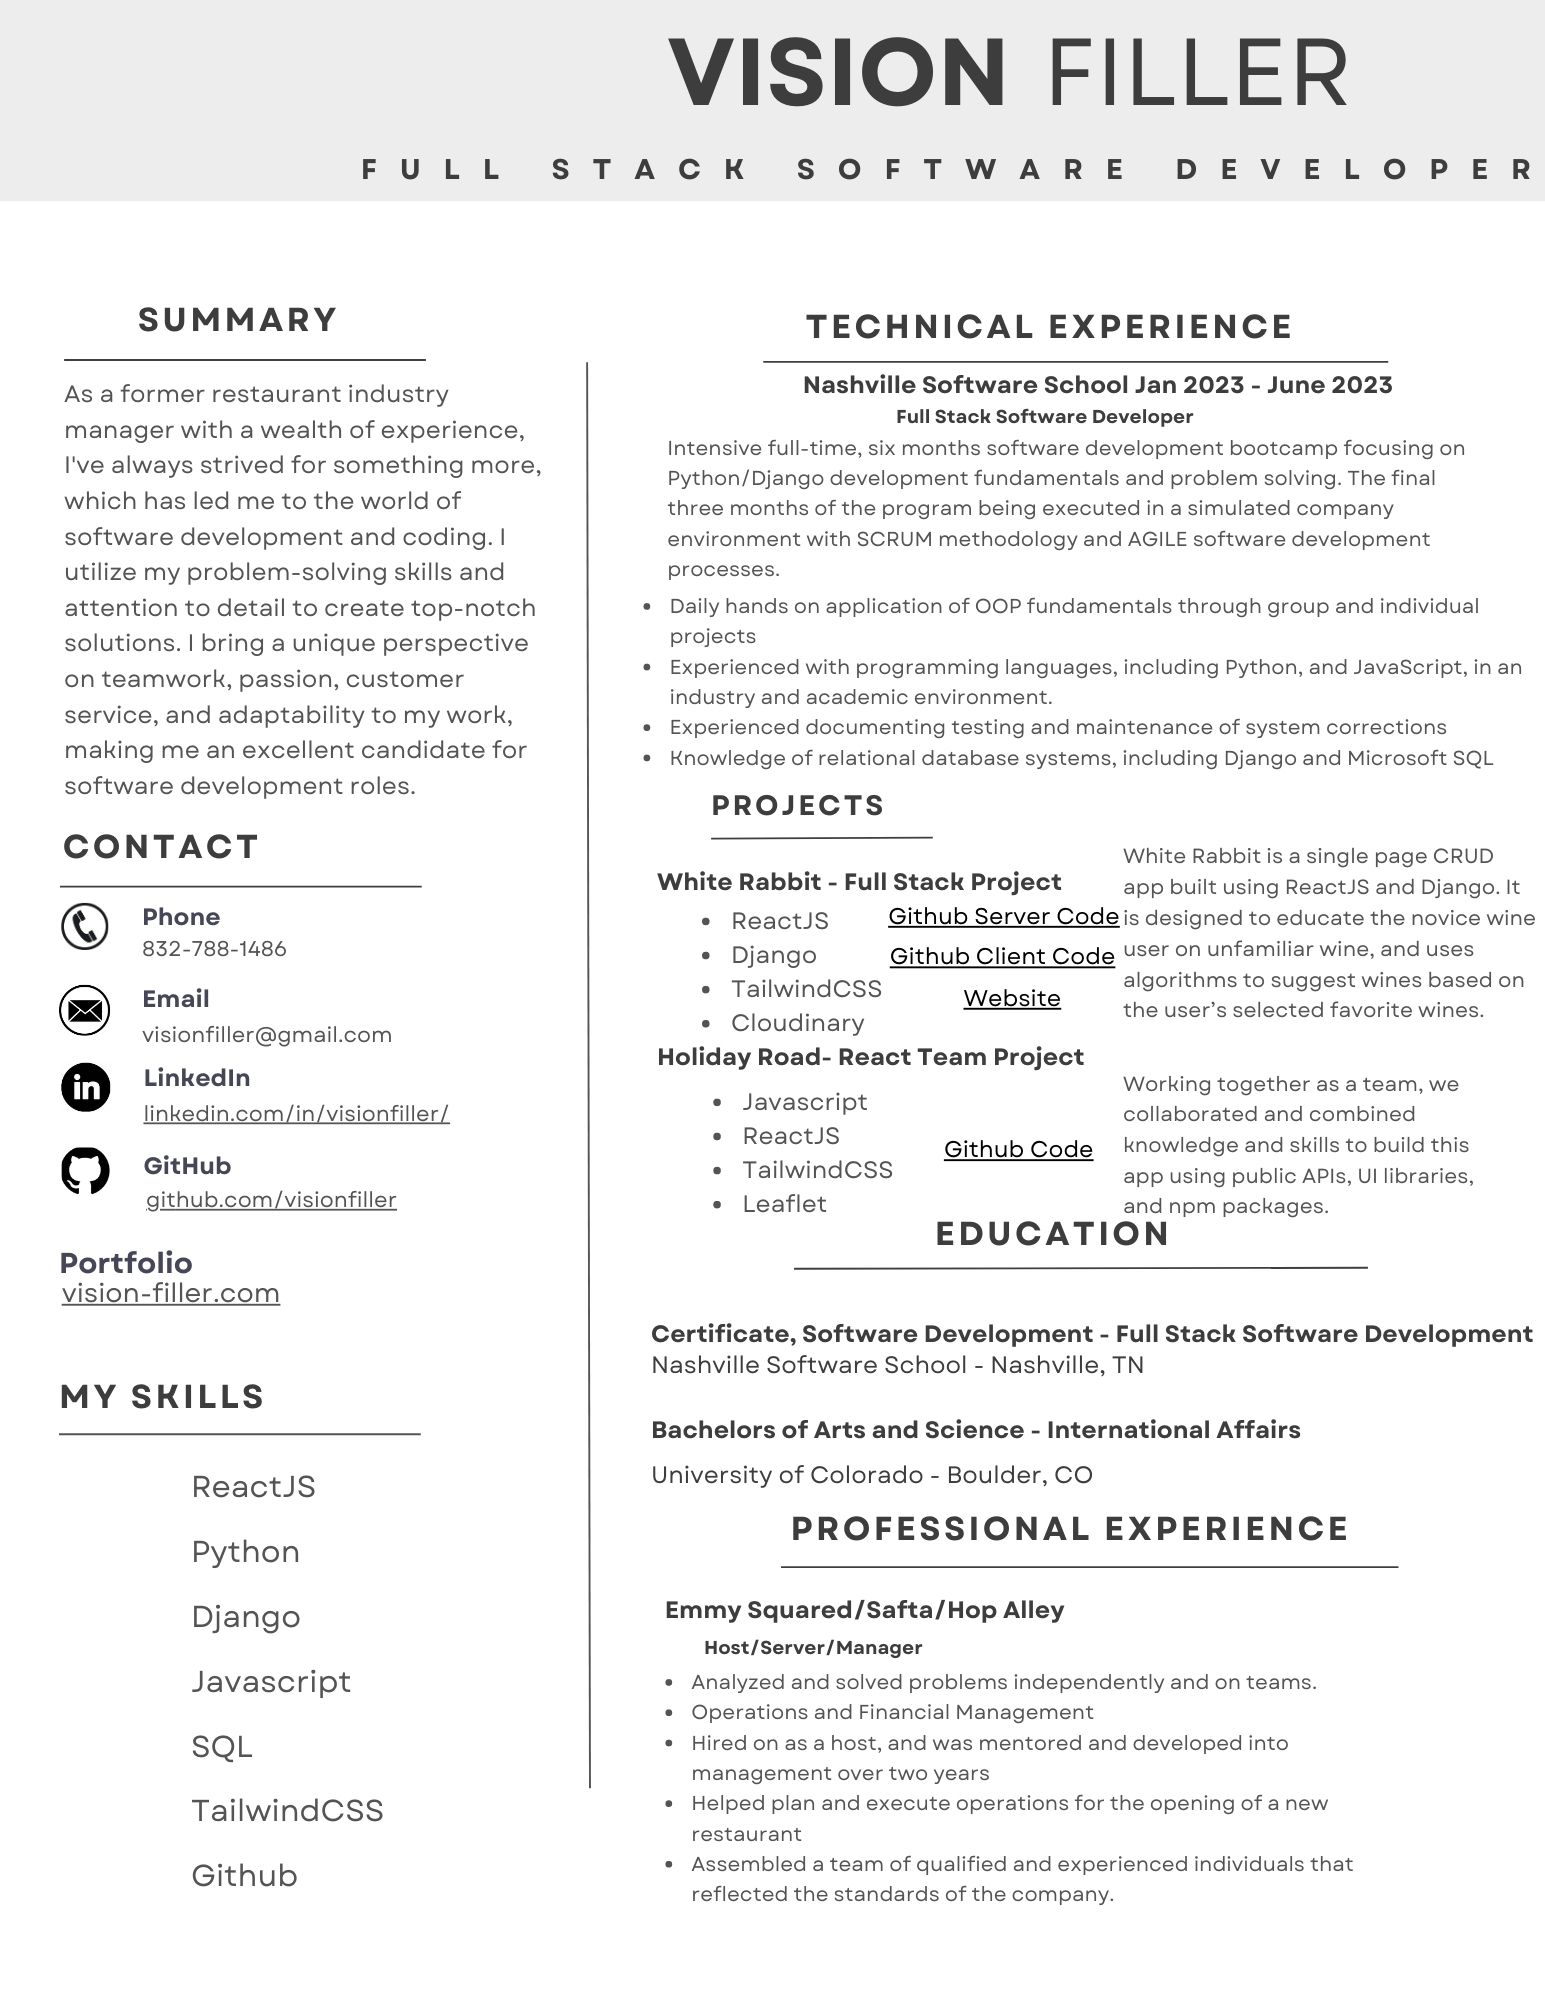
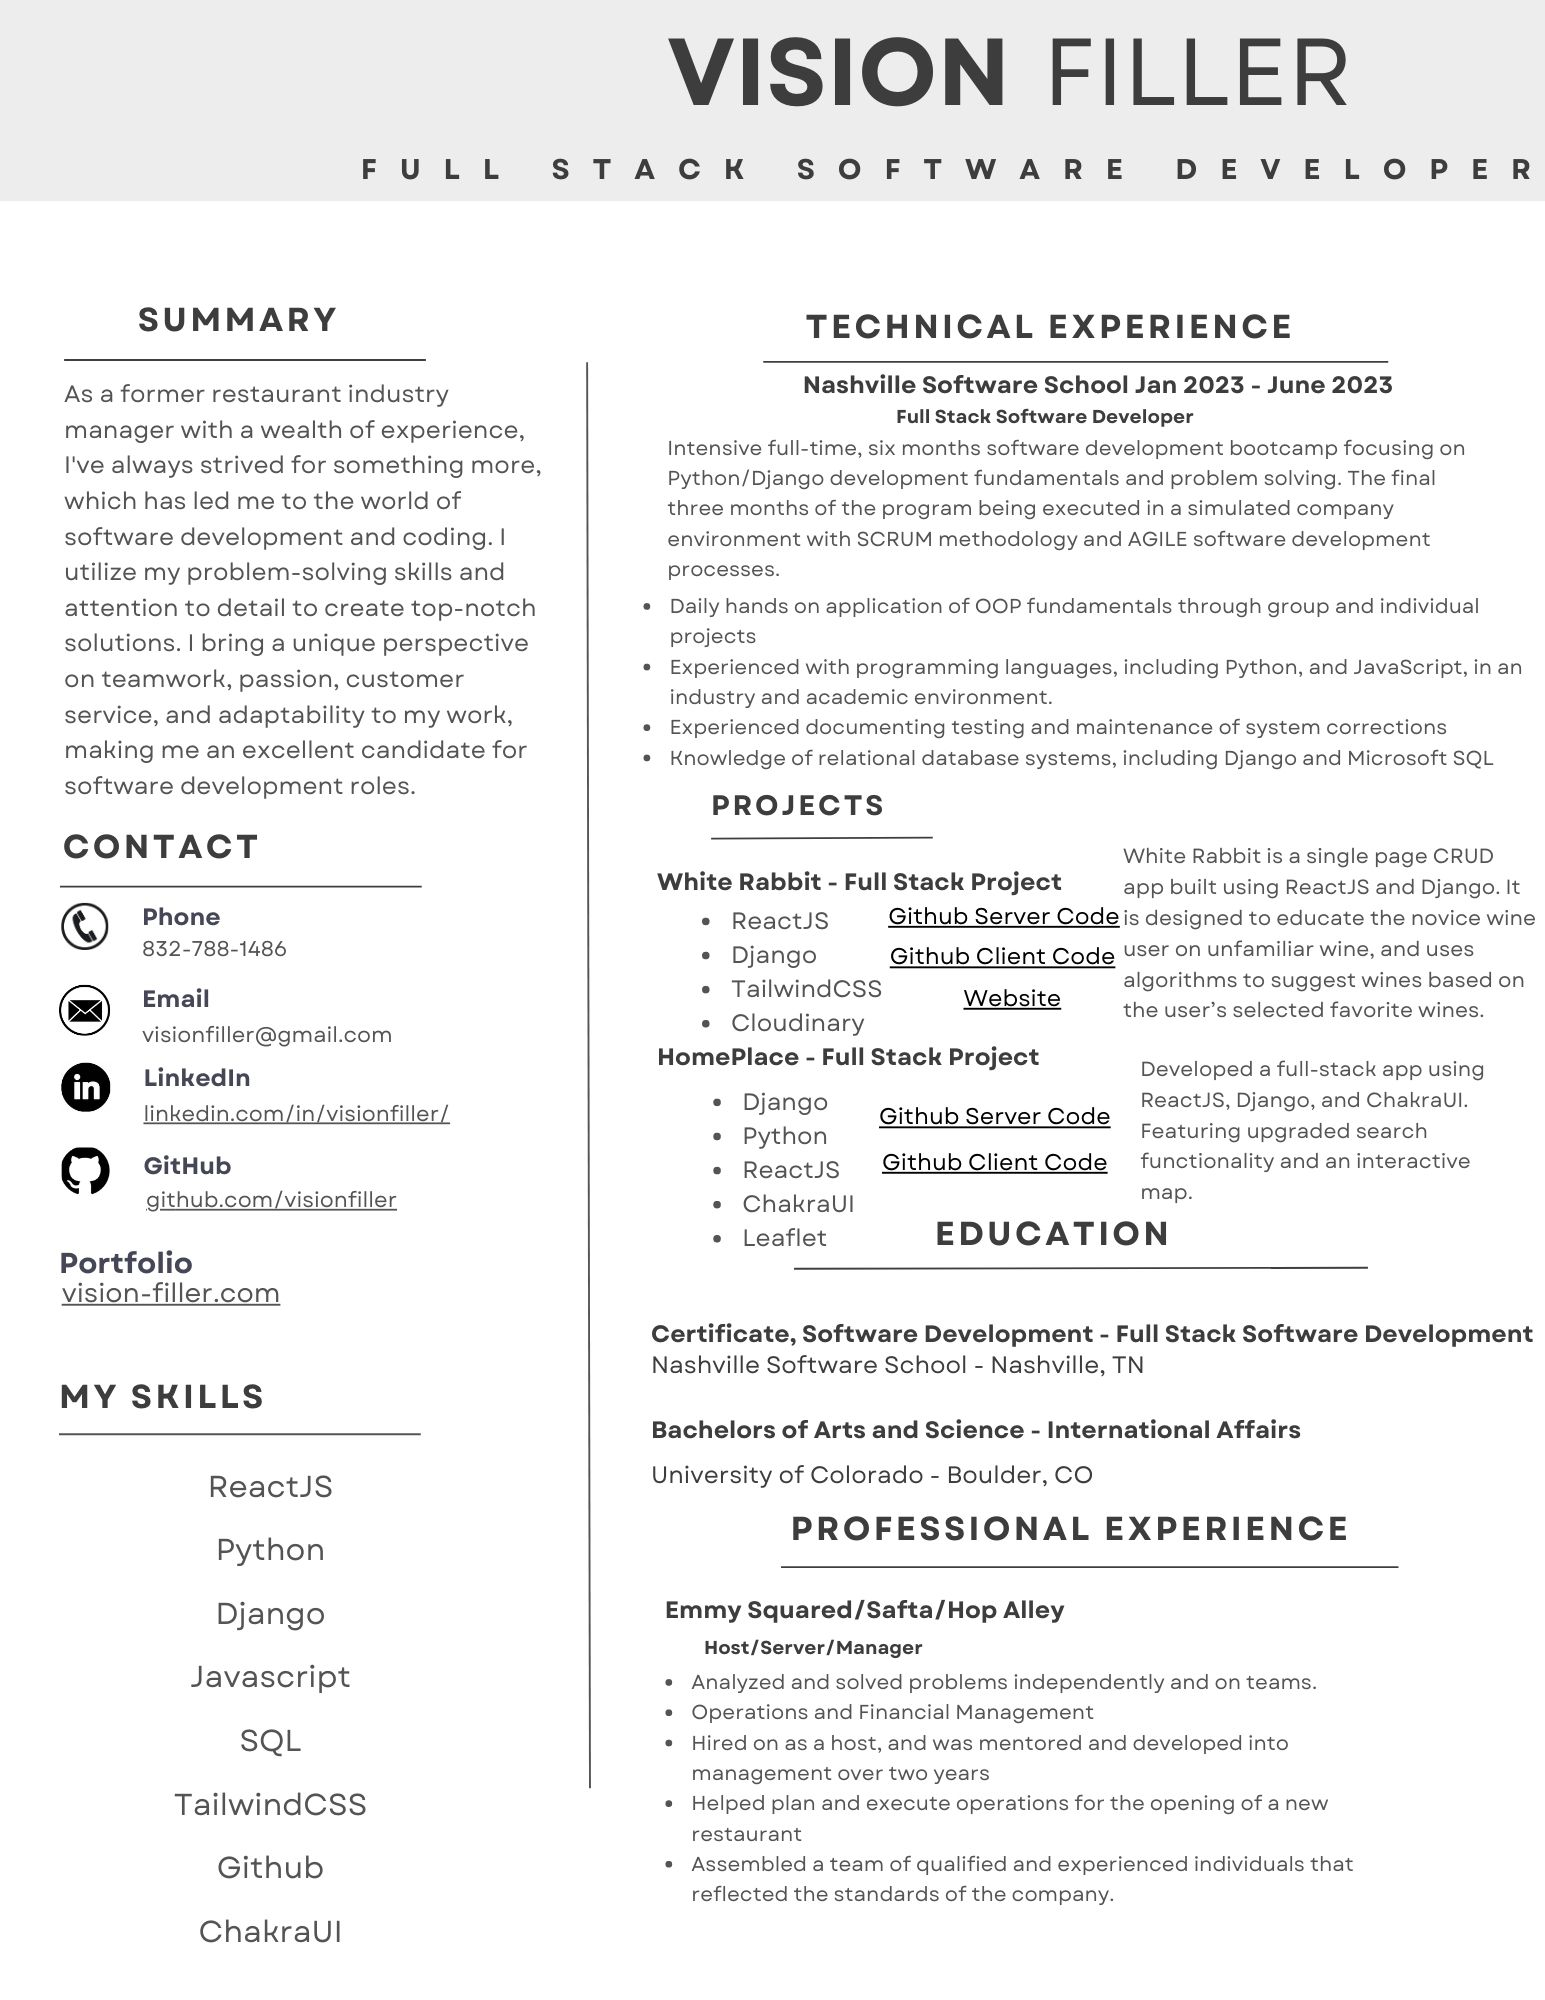
updated resume and projects

Changed region(s): [[0.466, 0.527, 0.9631, 0.62], [0.1243, 0.713, 0.2485, 0.992]]

diff --git a/src/components/pages/AboutMe.js b/src/components/pages/AboutMe.js
@@ -9,12 +9,15 @@ export const AboutMe = () => {
         <div className="bg-white w-full overflow-x-hidden ">
             <div className="mx-auto p-10 max-w-7xl px-6 lg:px-8">
                 <h2 className="text-center text-2xl font-semibold leading-8 text-secondary">my skills.</h2>
-                <div className="mx-auto mt-10 grid max-w-lg grid-cols-4 items-center gap-x-8 gap-y-10 sm:max-w-xl sm:grid-cols-6 sm:gap-x-10 lg:mx-0 lg:max-w-none lg:grid-cols-5">
+                <div className="mx-auto mt-10 grid max-w-lg grid-cols-4 items-center gap-x-8 gap-y-10 sm:max-w-xl sm:grid-cols-6 sm:gap-x-10 lg:mx-0 lg:max-w-none lg:grid-cols-4">
                     <img className="col-span-2 max-h-12 w-full object-contain lg:col-span-1" src="https://th.bing.com/th/id/OIP.a_wOSqpiu-wR6KEOKE1E0wAAAA?pid=ImgDet&rs=1" alt="React" width="158" height="48" />
                     <img className="col-span-2 max-h-12 w-full object-contain lg:col-span-1" src="https://th.bing.com/th/id/OIP.ViV1OEesGeL1Qcjvf0HhJgHaIB?pid=ImgDet&rs=1" alt="Javascript" width="158" height="48" />
                     <img className="col-span-2 max-h-12 w-full object-contain lg:col-span-1" src="https://pluspng.com/img-png/python-logo-png-python-logo-png-and-vector-logo-img-4096x4553.png" alt="Python" width="158" height="48" />
                     <img className="col-span-2 max-h-12 w-full object-contain sm:col-start-2 lg:col-span-1" src="https://th.bing.com/th/id/R.db767259a291c24ce95816fac91fdd94?rik=kQB%2f1TD%2f9BEjtQ&riu=http%3a%2f%2fwww.clipartbest.com%2fcliparts%2f9cz%2f6gL%2f9cz6gLroi.png&ehk=6Q%2bn5zCIoyy3DiO9p3QBoznEtfrqUV8tTSU4r6kWw%2bM%3d&risl=&pid=ImgRaw&r=0" alt="SQL" width="158" height="48" />
                     <img className="col-span-2 col-start-2 max-h-12 w-full object-contain sm:col-start-auto lg:col-span-1" src="https://dkrn4sk0rn31v.cloudfront.net/2019/02/06111419/1200px-Django_logo.svg.png" alt="Django" width="158" height="48" />
+                    <img className="col-span-2 max-h-12 w-full object-contain lg:col-span-1" src="https://th.bing.com/th/id/OIP.S-SYtYzIhgPRnmRd8yWH4gAAAA?pid=ImgDet&rs=1" alt="Tailwind" width="158" height="48" />
+                    <img className="col-span-2 max-h-12 w-full object-contain lg:col-span-1" src="https://jquery-plugins.net/image/plugin/chakra-ui-simple-modular-accessible-ui-components-for-react-applications.png" alt="Tailwind" width="158" height="48" />
+
                 </div>
             </div>
         </div>

diff --git a/src/components/pages/Projects.js b/src/components/pages/Projects.js
@@ -14,6 +14,20 @@ export const MyProjects = () => {
         <div className="carousel carousel-center w-3/4 mx-auto">
 
             <div className="carousel-item flex flex-col w-full h-full">
+                <h1 className="text-3xl text-secondary ">HomePlace</h1>
+                <div className="flex flex-col md:flex-row text-secondary">
+                    <img src="../images/homeplace.png" className="w-full md:w-[80%] h-full border border-6" />
+                    <div className="flex flex-col p-2">
+                        <p className="text-sm">Developed a full-stack app using React and Django, featuring upgraded search functionality and an interactive map. Enabled users to perform advanced searches, filter results, and view property locations on a dynamic map.</p>
+                        <Link href="#" onClick={() => openInNewTab("https://github.com/visionfiller/homeplace-server") } className=" m-2 text-center w-full h-6 bg-secondary rounded-lg font-semibold text-white">GitHub Server Side</Link>
+                        <Link href="#" onClick={() => openInNewTab("https://github.com/visionfiller/homeplace-client") } className=" m-2 text-center w-full h-6 bg-secondary rounded-lg font-semibold text-white">GitHub Client Side</Link>
+
+                        {/* <Link href="#" onClick={() => openInNewTab("https://whiterabbit-client.herokuapp.com/") } className=" m-2 text-center w-full h-6 bg-secondary rounded-lg font-semibold text-white">Deployed Site</Link> */}
+    
+                    </div>
+                </div>
+            </div>
+            <div className="carousel-item flex flex-col w-full h-full">
                 <h1 className="text-3xl text-secondary ">white rabbit.</h1>
                 <div className="flex flex-col md:flex-row text-secondary">
                     <img src="../images/whiterabbit.png" className="w-full md:w-[80%] h-full border border-6" />
